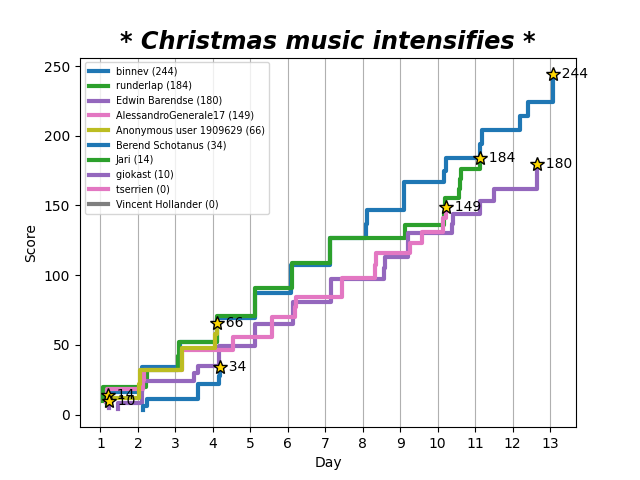
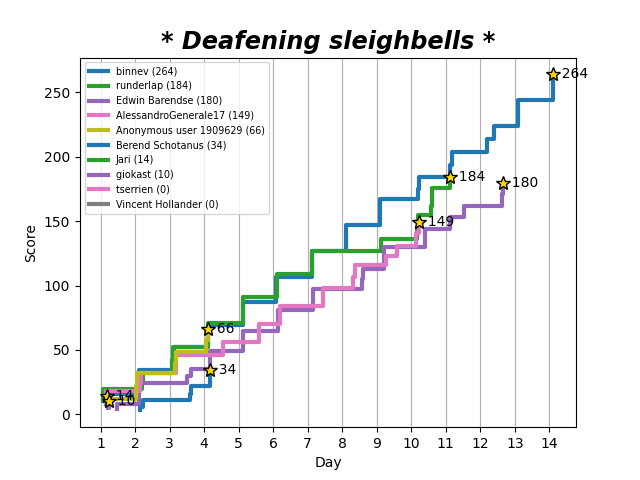
new leaderboard

diff --git a/python/_2022/stats/leaderboard.py b/python/_2022/stats/leaderboard.py
@@ -6,6 +6,16 @@ import matplotlib.pyplot as plt
 from matplotlib.axes import Axes
 from numpy import cumsum
 
+import random
+
+TITLES = [
+    "* Christmas music intensifies *",
+    "* Deafening sleighbells *",
+    "* Thundering hooves *",
+    "* Reindeer noises *",
+    "* Ho ho ho *",
+]
+
 
 def load_file() -> dict:
     json_file = Path(__file__).parent / "leaderboard.json"
@@ -113,7 +123,7 @@ def plot_results(data: dict):
             )
     ax.legend(loc="best", fontsize="x-small")
     ax.set_title(
-        "* Christmas music intensifies *",
+        random.choice(TITLES),
         weight="bold",
         style="italic",
         fontsize="xx-large",
